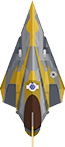
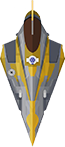
Added different players and different enemies
Choosing a side now changes the player spaceship and adds different
enemies for each side.

diff --git a/src/com/company/graphics/Assets.java b/src/com/company/graphics/Assets.java
@@ -1,5 +1,7 @@
 package com.company.graphics;
 
+import com.company.eventHandlers.MouseInput;
+
 import java.awt.*;
 import java.awt.image.BufferedImage;
 import java.io.BufferedReader;
@@ -33,10 +35,23 @@ public class Assets {
 
     public static void init() {
         background = ImageLoader.loadImage(ImageAlbum.Background.getPath());
-        player = ImageLoader.loadImage(ImageAlbum.RebelPlayer.getPath());
+
+        if (MouseInput.isRebel) {
+            player = ImageLoader.loadImage(ImageAlbum.RebelPlayer.getPath());
+            easyEnemy = ImageLoader.loadImage(ImageAlbum.EasyEmpireEnemy.getPath());
+            sturdyEnemy = ImageLoader.loadImage(ImageAlbum.SturdyEmpireEnemy.getPath());
+
+        } else {
+            player = ImageLoader.loadImage(ImageAlbum.SithPlayer.getPath());
+            easyEnemy = ImageLoader.loadImage(ImageAlbum.EasyRebelsEnemy.getPath());
+            sturdyEnemy = ImageLoader.loadImage(ImageAlbum.SturdyRebelsEnemy.getPath());
+        }
+
         bullet = ImageLoader.loadImage(ImageAlbum.Bullet.getPath());
-        easyEnemy = ImageLoader.loadImage(ImageAlbum.EasyEnemy.getPath());
-        sturdyEnemy = ImageLoader.loadImage(ImageAlbum.SturdyEnemy.getPath());
+
+
+
+
         live = ImageLoader.loadImage(ImageAlbum.Live.getPath());
         doubleDamageBonus = ImageLoader.loadImage(ImageAlbum.DoubleDamageBonus.getPath());
         highScoresBackground = ImageLoader.loadImage(ImageAlbum.HighScores.getPath());

diff --git a/src/com/company/eventHandlers/MouseInput.java b/src/com/company/eventHandlers/MouseInput.java
@@ -1,12 +1,16 @@
 package com.company.eventHandlers;
 
+import com.company.graphics.Assets;
 import com.company.graphics.Display;
+import com.company.graphics.ImageAlbum;
+import com.company.graphics.ImageLoader;
 import com.company.screeStates.*;
 
 import java.awt.event.MouseEvent;
 import java.awt.event.MouseListener;
 
 public class MouseInput implements MouseListener {
+    public static boolean isRebel;
     public MouseInput(Display display) {
         display.getCanvas().addMouseListener(this);
     }
@@ -47,9 +51,11 @@ public class MouseInput implements MouseListener {
             }
         }
         else if(StateManager.getCurrentState() instanceof ChooseSideState) {
+
             //Sith Button
             if (mouseX >= 50 && mouseX <= 350) {
                 if (mouseY >= 300 && mouseY <= 400) {
+                    isRebel = false;
                     StateManager.setCurrentState(new GameState());
                 }
             }
@@ -57,6 +63,7 @@ public class MouseInput implements MouseListener {
             //Rebels Button
             if (mouseX >= 450 && mouseX <= 750) {
                 if (mouseY >= 300 && mouseY <= 400) {
+                    isRebel = true;
                     StateManager.setCurrentState(new GameState());
                 }
             }

diff --git a/src/com/company/graphics/ImageAlbum.java b/src/com/company/graphics/ImageAlbum.java
@@ -5,8 +5,10 @@ public enum ImageAlbum {
     //If you add another object to the game you must insert it in the enumeration here in order to get it's path
     RebelPlayer("/MilleniumFalcon65.png"),
     SithPlayer("/SithInfiltrator65.png"),
-    EasyEnemy("/TIEFighter65.png"),
-    SturdyEnemy("/StarDestroyer65.png"),
+    EasyEmpireEnemy("/TIEFighter65.png"),
+    SturdyEmpireEnemy("/StarDestroyer65.png"),
+    EasyRebelsEnemy("/XWing65.png"),
+    SturdyRebelsEnemy("/JediStarFighter65.png"),
     DoubleDamageBonus("/x2Bonus.png"),
     Bullet("/bullet.png"),
     Background("/bg.jpg"),
